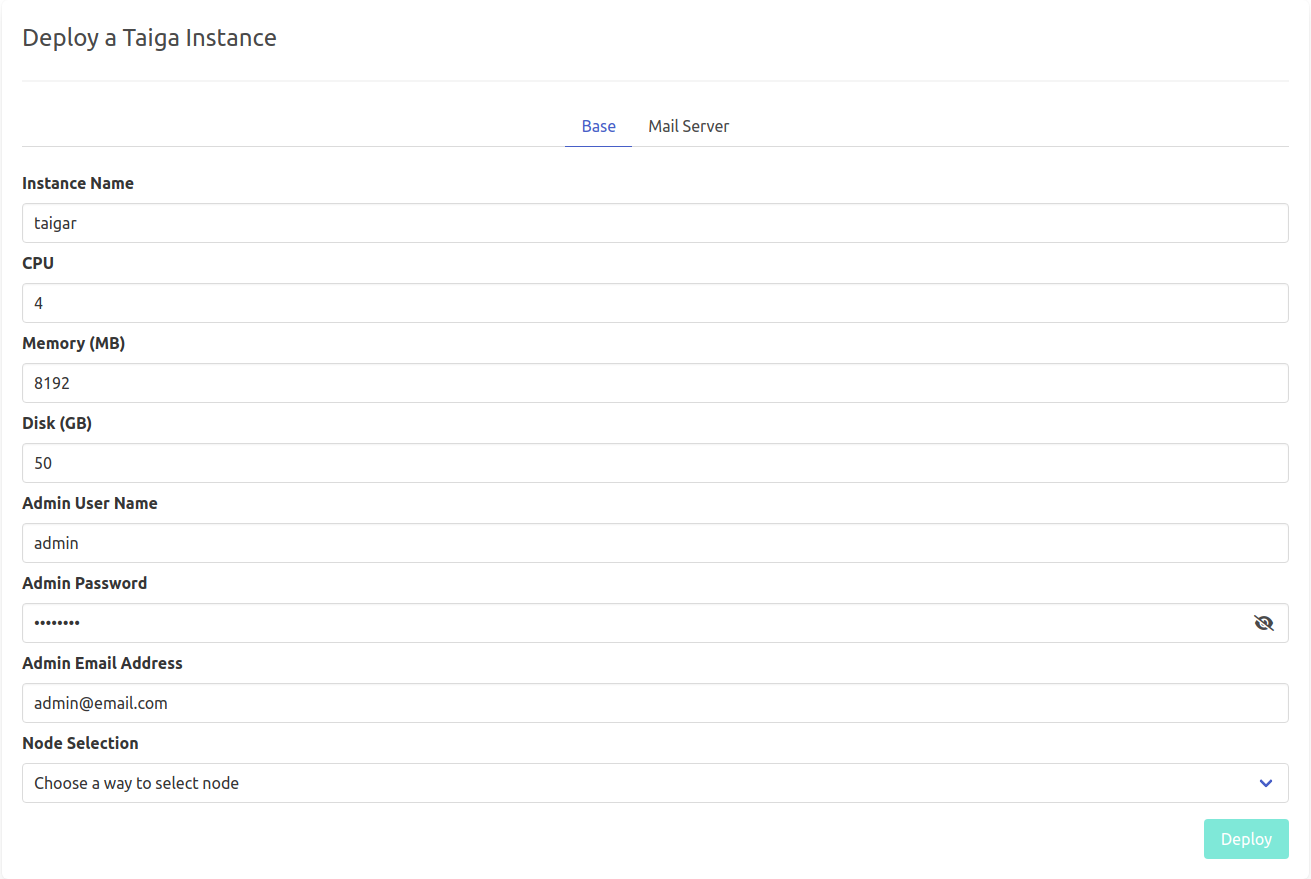
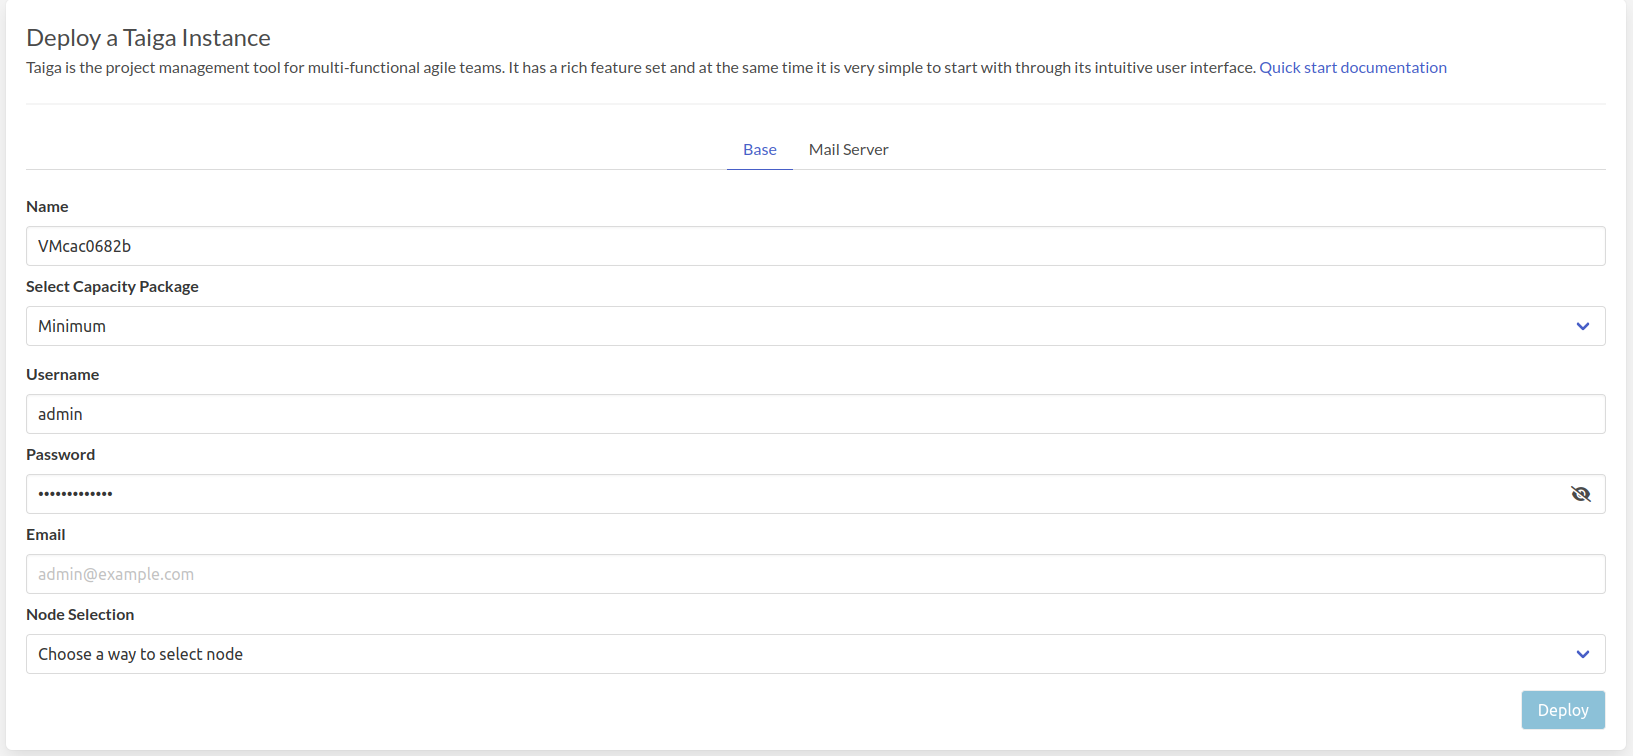
update weblets docs and screenshots

diff --git a/wiki/weblets/weblets_home.md b/wiki/weblets/weblets_home.md
@@ -14,22 +14,25 @@ __Advantages__ :
 ## Weblets list
 
 There are several weblets you can use like: 
-    - Basic Environments:
-      - [Virtual Machine](weblets_vm)
-      - [Kubernetes](weblets_k8s)
-    - Ready Comunity Soutions
-      - [Caprover](weblets_caprover)
-      - [Funkwhale](weblets_funkwhale)
-      - [Peertube](weblets_peertube)
-      - [Taiga](weblets_taiga)
-      - [Owncloud](weblets_owncloud)
-      - [Discourse](weblets_discourse)
-      - [Mattermost](weblets_mattermost)
-      - [Presearch](weblets_presearch)
-      - [CasperLabs](weblets_casper)
-    - Some utils:
-      - [Profile Manager](weblets_profile_manager)
-      - [Deployment List](weblets_deployments_list)
+
+- Basic Environments:
+  - [Virtual Machine](weblets_vm)
+  - [Kubernetes](weblets_k8s)
+
+- Ready Comunity Soutions
+  - [Caprover](weblets_caprover)
+  - [Funkwhale](weblets_funkwhale)
+  - [Peertube](weblets_peertube)
+  - [Taiga](weblets_taiga)
+  - [Owncloud](weblets_owncloud)
+  - [Discourse](weblets_discourse)
+  - [Mattermost](weblets_mattermost)
+  - [Presearch](weblets_presearch)
+  - [CasperLabs](weblets_casper)
+
+- Some utils:
+  - [Profile Manager](weblets_profile_manager)
+  - [Deployment List](weblets_deployments_list)
 
 ## Playground
 Playground is a Vue app that has the weblets imbededd. so you can try it out on different TF Chain networks.

diff --git a/wiki/weblets/weblets_mattermost.md b/wiki/weblets/weblets_mattermost.md
@@ -13,17 +13,20 @@ __Process__ :
 
 - Enter an Application Name. It's used in generating a unique subdomain on one of the gateways on the network alongside your twin ID. Ex. ***matter*.gent02.dev.grid.tf**
 
-- Mattermost requires an SMTP server. So make sure you have one configured and fill the fields with its credentials.
+- Select a capacity package:
+    - **Minimum**: {cpu: 1, memory: 1024 * 2}
+    - **Standard**: {cpu: 2, memory: 1024 * 4}
+    - **Recommended**: {cpu: 4, memory: 1024 * 4 }
+    - Or choose a **Custom** plan
 
-- Choose a node to deploy your Mattermost instance on.
+- Select a node to deploy your MatterMost instance on.
 
 - Either use the **Capacity Filter**. Which simply lets you pick a *Farm* and *Country*, after clicking on *Apply filters and suggest nodes* then it lists available nodes with these preferences and you pick.
 
-![](img/mattermost2.png)
 
 - Or use **Manual** and type a specific node number to deploy on.
 
-![](img/mattermost3.png)
+- Mattermost requires an SMTP server. So make sure you have one configured and fill the fields with its credentials.
 
 After that is done you can see a list of all of your deployed instances
 

diff --git a/wiki/weblets/weblets_discourse.md b/wiki/weblets/weblets_discourse.md
@@ -15,15 +15,19 @@ __Process__ :
 
 - Enter administrator information including **Email**. This admin will have full permission on the deployed instance.
 
-- Choose a node to deploy your Discourse instance on.
+- Select a capacity package:
+    - **Minimum**: {cpu: 1, memory: 1024 * 2, diskSize: 10 }
+    - **Standard**: {cpu: 2, memory: 1024 * 2, diskSize: 50 }
+    - **Recommended**: {cpu: 4, memory: 1024 * 4, diskSize: 100 }
+    - Or choose a **Custom** plan
+
+- Select a node to deploy your Discourse instance on.
 
 - Either use the **Capacity Filter**. Which simply lets you pick a *Farm* and *Country*, after clicking on *Apply filters and suggest nodes* then it lists available nodes with these preferences and you pick.
 
-![](img/discourse2.png)
 
 - Or use **Manual** and type a specific node number to deploy on.
 
-![](img/discourse3.png)
 
 Unlike other solutions, Discourse requires that you have an SMTP server. So make sure you fill the fields in the **Mail Server** tab in order to deploy your instance successfully.
 

diff --git a/wiki/weblets/weblets_profile_manager.md b/wiki/weblets/weblets_profile_manager.md
@@ -14,7 +14,8 @@ Start by creating a profile from the upper right button. This creates a profile,
 
 ![](img/pro_manager5.png)
 
-The **Profile Manager Password** is how you store your profile info locally, in your browser. So you shouldn't be sharing it with anyone and always remember it. Create a new profile by visiting the **Create Profile Manager** tab and enter your new password. After you're done, click on **Create New Profile Manager**. 
+The **Profile Manager Password** is how you store your profile info in browser local storage.
+Create a new profile by visiting the **Create Profile Manager** tab and enter your new password. After you're done, click on **Create New Profile Manager**. 
 
 You'll need that password to be able to load your profiles afterwards from the **Activate Profile Manager** tab.
 

diff --git a/wiki/weblets/weblets_funkwhale.md b/wiki/weblets/weblets_funkwhale.md
@@ -18,8 +18,12 @@ __Process__ :
 
 - Choose a node to deploy your Funkwhale instance on.
 - Select a capacity package:
-!!!code url:https://github.com/threefoldtech/grid_weblets/blob/261b7e99d9965a8ba427c3f9804c8e147c42d6ec/src/elements/funkwhale/Funkwhale.wc.svelte#L51-L55
+    - **Minimum**: {cpu: 2, memory: 1024, diskSize: 50 }
+    - **Standard**: {cpu: 2, memory: 1024 * 2, diskSize: 100 }
+    - **Recommended**: {cpu: 4, memory: 1024 * 4, diskSize: 250 }
+    - Or choose a **Custom** plan
 
+- Select a node to deploy your Funkwhale instance on.
 - Either use the **Capacity Filter**. Which simply lets you pick a *Farm* and *Country*, after clicking on *Apply filters and suggest nodes* then it lists available nodes with these preferences and you pick.
 
 ![](img/new_funk2.png)

diff --git a/wiki/weblets/weblets_taiga.md b/wiki/weblets/weblets_taiga.md
@@ -15,7 +15,13 @@ __Process__ :
 
 - Enter administrator information including **Username**, **Email** and **Password**. This admin user will have full permission on the deployed instance.
 
-- Choose a node to deploy your Funkwhale instance on.
+- Select a capacity package:
+    - **Minimum**: { cpu: 2, memory: 1024 * 2, diskSize: 100 }
+    - **Standard**: { cpu: 2, memory: 1024 * 4, diskSize: 150 }
+    - **Recommended**: { cpu: 4, memory: 1024 * 4, diskSize: 250 }
+    - Or choose a **Custom** plan
+
+- Select a node to deploy your Taiga instance on.
 
 - Either use the **Capacity Filter**. Which simply lets you pick a *Farm* and *Country*, after clicking on *Apply filters and suggest nodes* then it lists available nodes with these preferences and you pick.
 

diff --git a/wiki/weblets/weblets_owncloud.md b/wiki/weblets/weblets_owncloud.md
@@ -15,7 +15,14 @@ __Process__ :
 
 - Enter administrator information including **Username** and **Password**. This admin user will have full permission on the deployed instance.
 
-- Choose a node to deploy your Owncloud instance on.
+
+- Select a capacity package:
+    - **Minimum**: { cpu: 2, memory: 1024 * 16, diskSize: 250 }
+    - **Standard**: { cpu: 2, memory: 1024 * 16, diskSize: 500 }
+    - **Recommended**: { cpu: 4, memory: 1024 * 16, diskSize: 1000 }
+    - Or choose a **Custom** plan
+
+- Select a node to deploy your OwnCloud instance on.
 
 - Either use the **Capacity Filter**. Which simply lets you pick a *Farm* and *Country*, after clicking on *Apply filters and suggest nodes* then it lists available nodes with these preferences and you pick.
 

diff --git a/wiki/weblets/weblets_peertube.md b/wiki/weblets/weblets_peertube.md
@@ -14,7 +14,10 @@ __Process__
   the applied format `<solution-code><twin-id><solution-name>.<gateway-subdomain>` Ex. ***pt100peerprod*.gent02.dev.grid.tf**
 - Enter an email and password which will be used for the admin login.
 - Select a capacity package:
-!!!code url:https://github.com/threefoldtech/grid_weblets/blob/261b7e99d9965a8ba427c3f9804c8e147c42d6ec/src/elements/peertube/Peertube.wc.svelte#L42-L46
+    - **Minimum**: { cpu: 1, memory: 1024, diskSize: 100 }
+    - **Standard**: { cpu: 2, memory: 1024 * 2, diskSize: 250 }
+    - **Recommended**: { cpu: 4, memory: 1024 * 4, diskSize: 500 }
+    - Or choose a **Custom** plan
 
 - Select a node to deploy your Peertube instance on.
 

diff --git a/wiki/weblets/weblets_presearch.md b/wiki/weblets/weblets_presearch.md
@@ -18,11 +18,9 @@ __Process__
 
 - Either use the **Capacity Filter** which simply lets you pick a *Farm* and *Country*, after clicking on *Apply filters and suggest nodes* then it lists available nodes with these preferences and you pick.
 
-![](img/presearch2.png)
 
 - Or use **Manual** and type a specific node number to deploy on.
 
-![](img/presearch3.png)
 ### Now what if you already have a Presearch node deployed somewhere and would like to migrate to Threefold?
 
 We got you! All you need to do is:
